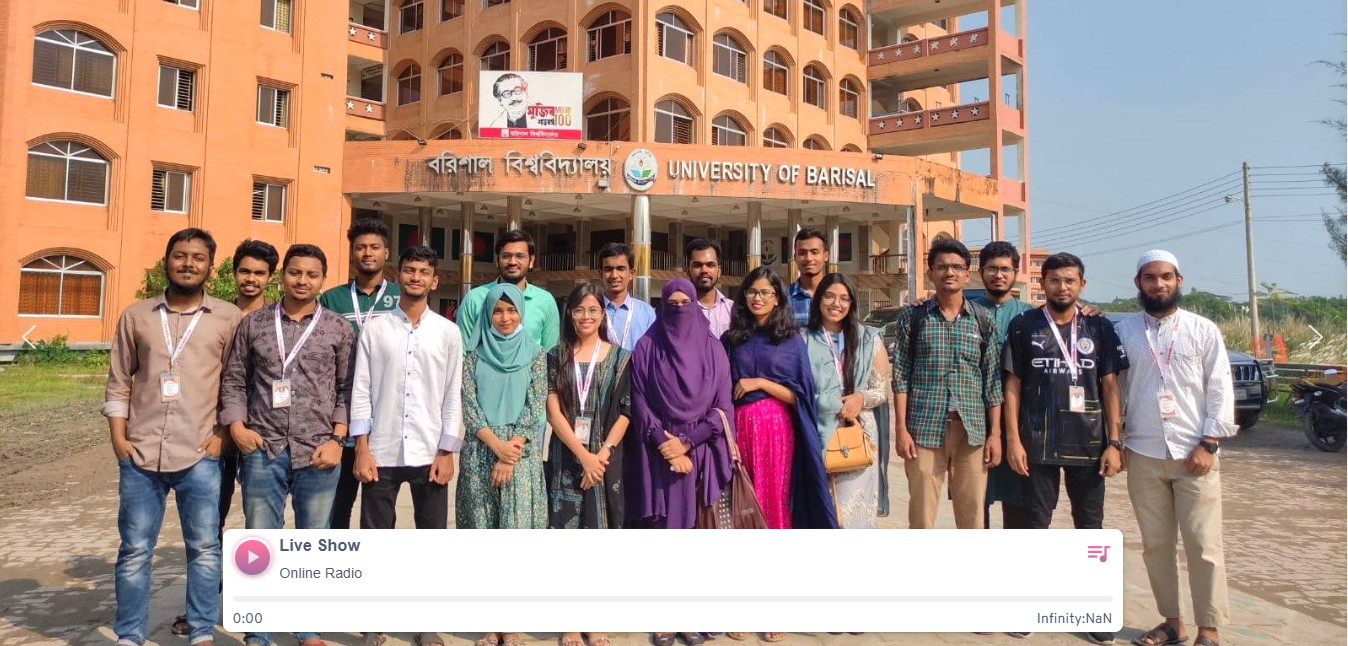
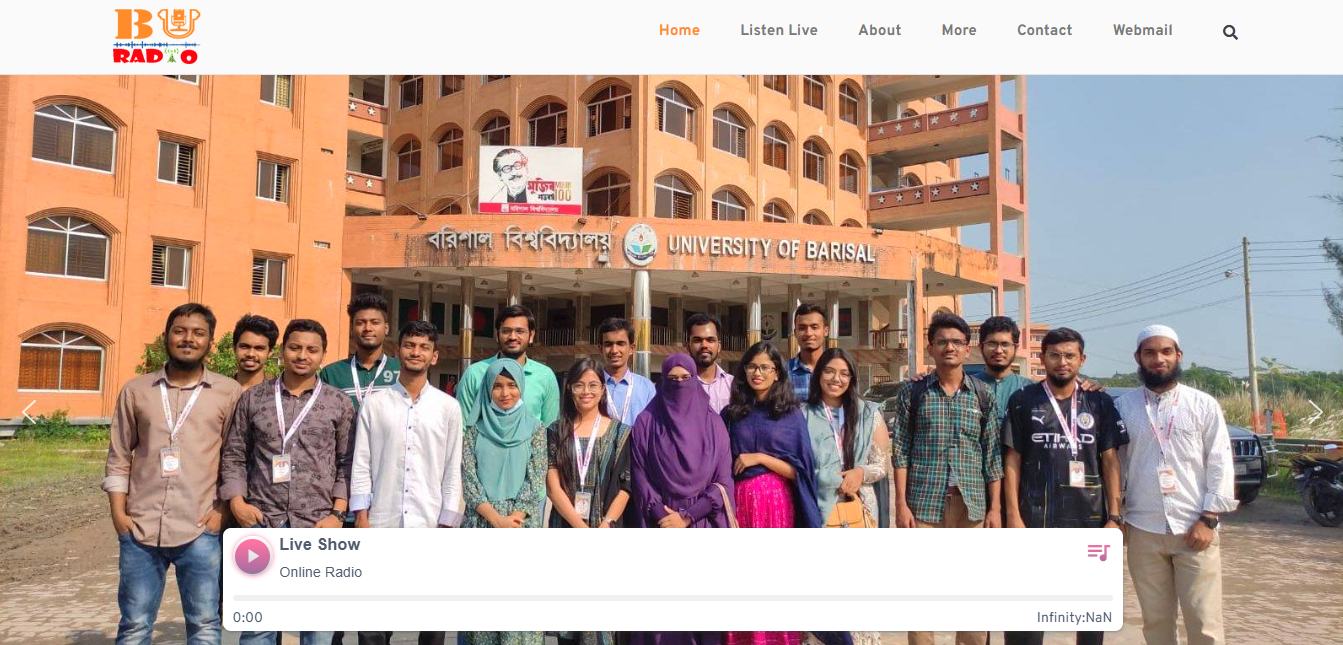
screenshot added and readme file updated

diff --git a/README.md b/README.md
@@ -1,1 +1,3 @@
+## Screenshot
+
 ![screenshot of plugin (buradio.org)](https://github.com/himusharier/buradio-wordpress-plugin-audio-player/blob/5d776870deb19612c8a95889d750d1a559f46b81/buradio.org.PNG)
